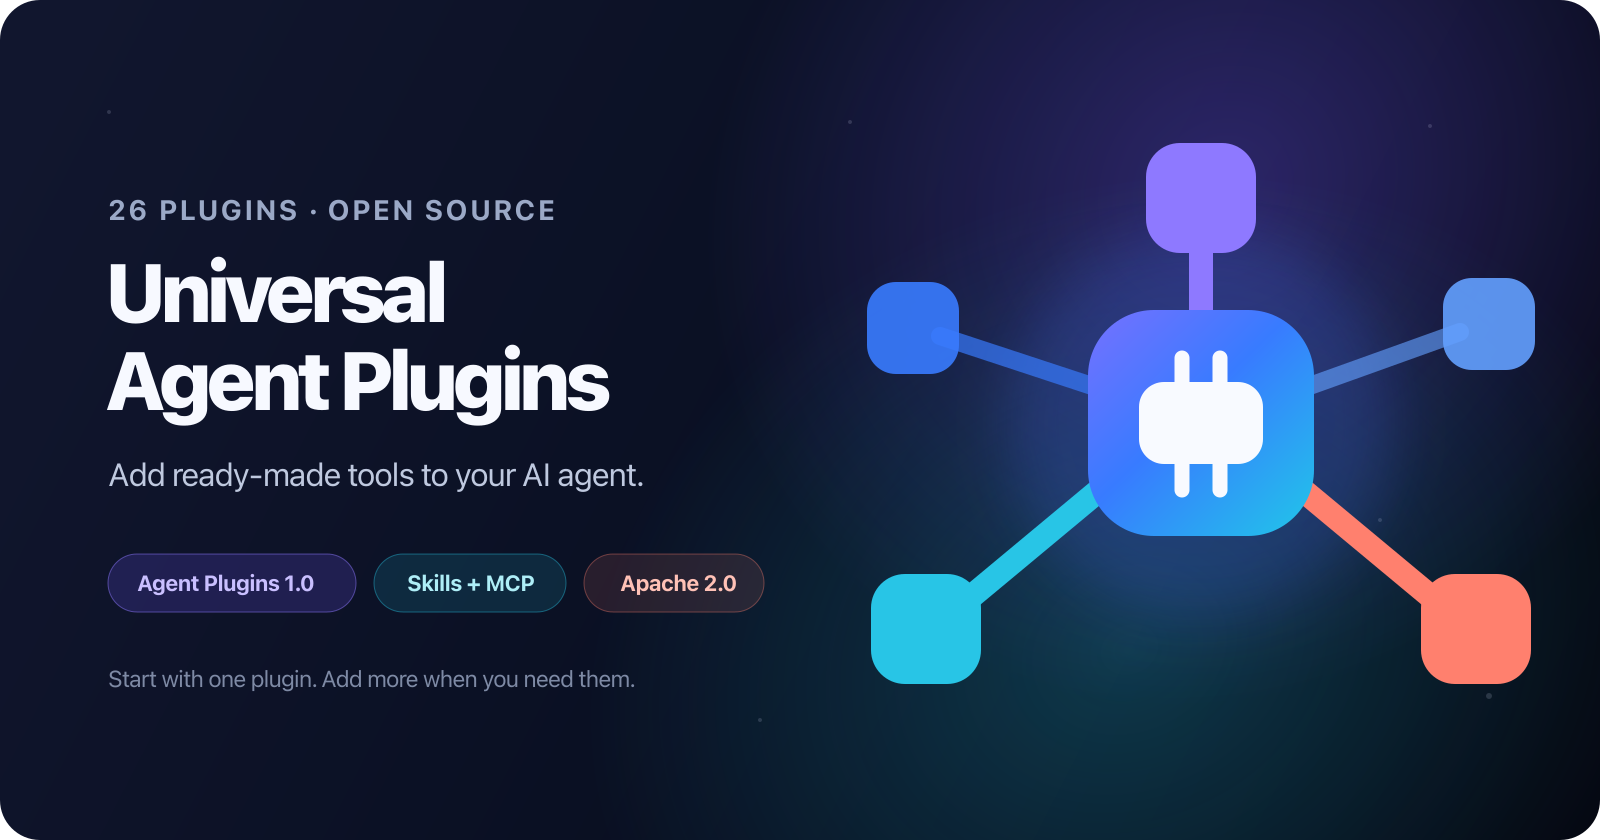
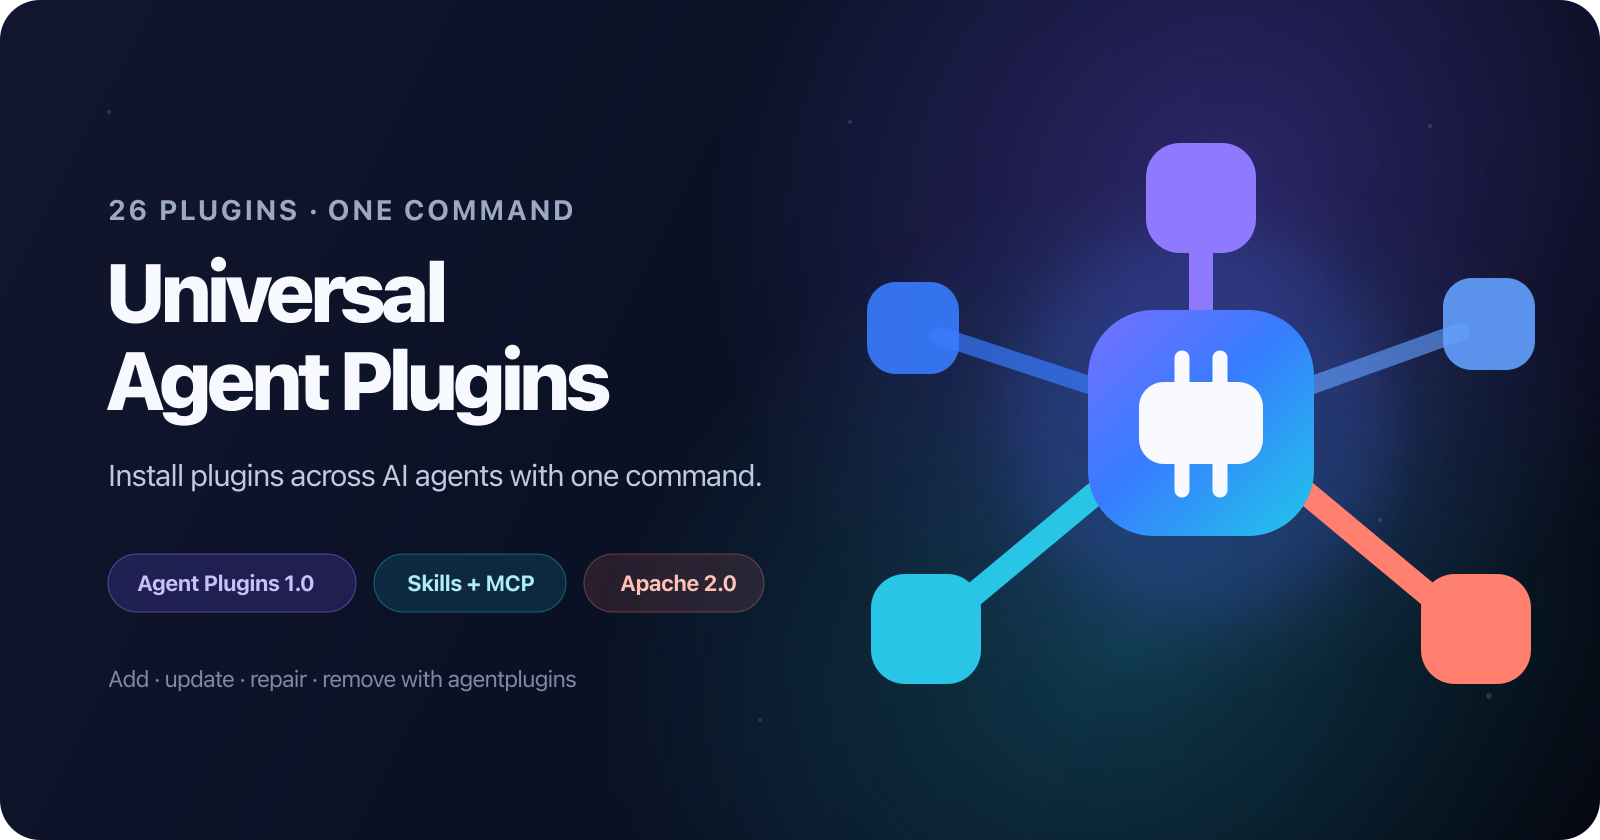
docs: lead with cross-agent installation

Changed region(s): [[0.0625, 0.5571, 0.4688, 0.5881], [0.0625, 0.8048, 0.4062, 0.8357], [0.2188, 0.2167, 0.375, 0.2786]]

diff --git a/README.md b/README.md
@@ -7,8 +7,13 @@
 [![Agent Plugins 1.0](https://img.shields.io/badge/Agent%20Plugins-1.0.0-7257FF)](https://agent-plugins.org/specification)
 [![License](https://img.shields.io/badge/license-Apache--2.0-20A4C8)](LICENSE)
 
-Give your AI agent ready-made abilities: search current documentation, navigate
-code, debug browsers, work with cloud tools, and more. Pick one plugin and add
+**One CLI installs Agent Plugins across Codex, ChatGPT, Cursor, GitHub
+Copilot/VS Code, and Kiro.** It adapts each package to the selected client and
+manages add, update, repair, and remove. When a client requires UI activation or
+OAuth, it prints the exact next step.
+
+Pick from 26 ready-made abilities: search current documentation, navigate code,
+debug browsers, work with cloud tools, and more. Install one plugin and add
 others only when you need them.
 
 This repository contains 26 open-source plugins packaged for the
@@ -40,6 +45,14 @@ than one is present, choose one from the prompt. To choose directly:
 
 ```bash
 npx universal-agent-plugins add context7 --target cursor
+```
+
+The same CLI manages the rest of the plugin lifecycle:
+
+```bash
+npx universal-agent-plugins update context7 --target cursor
+npx universal-agent-plugins repair context7 --target cursor
+npx universal-agent-plugins remove context7 --target cursor
 ```
 
 Open a new chat or session in the client you selected and ask:
